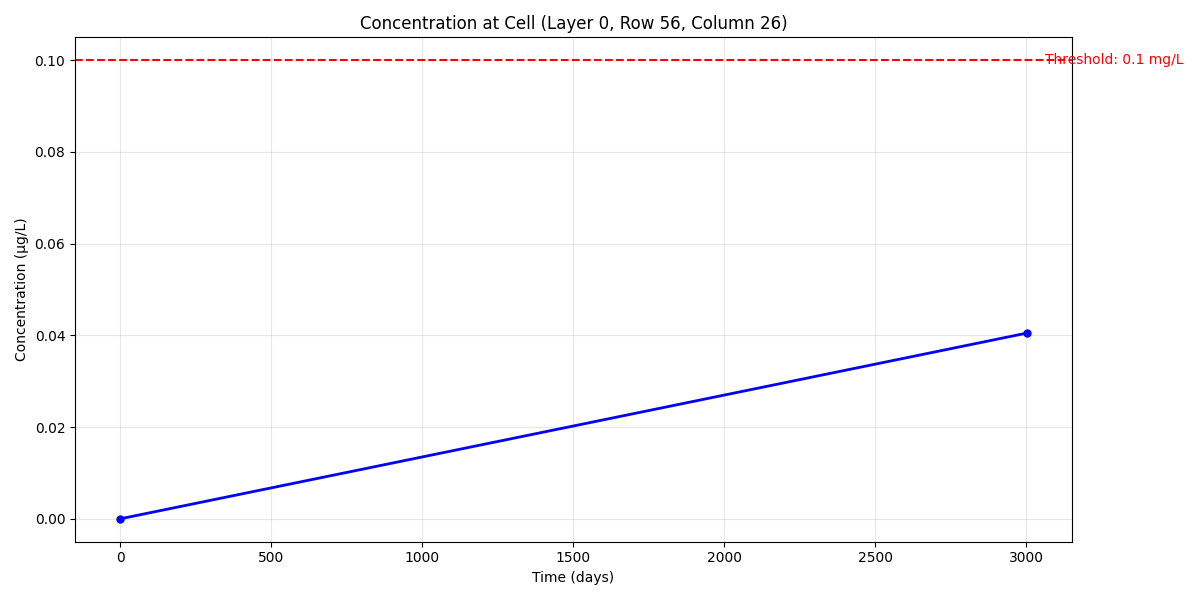
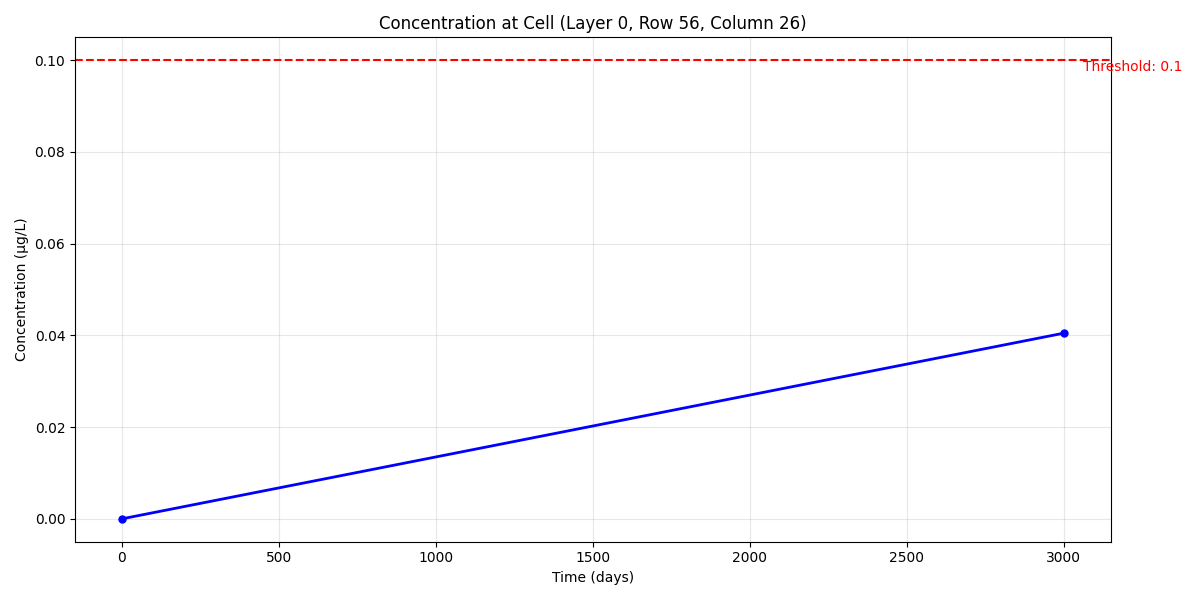
Added observation graph for the steady state

diff --git a/src/notebooks/flopy_example_2_50p.py b/src/notebooks/flopy_example_2_50p.py
@@ -554,8 +554,8 @@ def example_2_wells():
     # Add threshold line (example: 50 μg/L)
     threshold = 0.1
     plt.axhline(y=threshold, color='r', linestyle='--', linewidth=1.5)
-    plt.text(times[-1] * 1.02, threshold, f'Threshold: {threshold} mg/L',
-             color='r', va='center')
+    plt.text(times[-1] * 1.02, threshold, f'Threshold: {threshold}',
+             color='r', va='top')
 
     # Format plot
     plt.title(f"Concentration at Cell (Layer 0, Row 56, Column 26)")

diff --git a/src/notebooks/flopy_example_2.py b/src/notebooks/flopy_example_2.py
@@ -553,7 +553,7 @@ def example_2_wells():
     # Add threshold line (example: 50 μg/L)
     threshold = 0.1
     plt.axhline(y=threshold, color='r', linestyle='--', linewidth=1.5)
-    plt.text(times[-1] * 1.02, threshold, f'Threshold: {threshold} mg/L',
+    plt.text(times[-1] * 1.02, threshold, f'Threshold: {threshold} ',
              color='r', va='center')
 
     # Format plot
